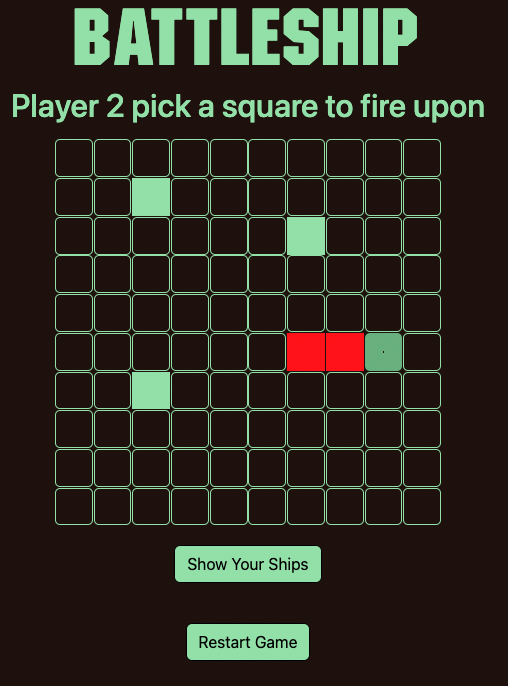
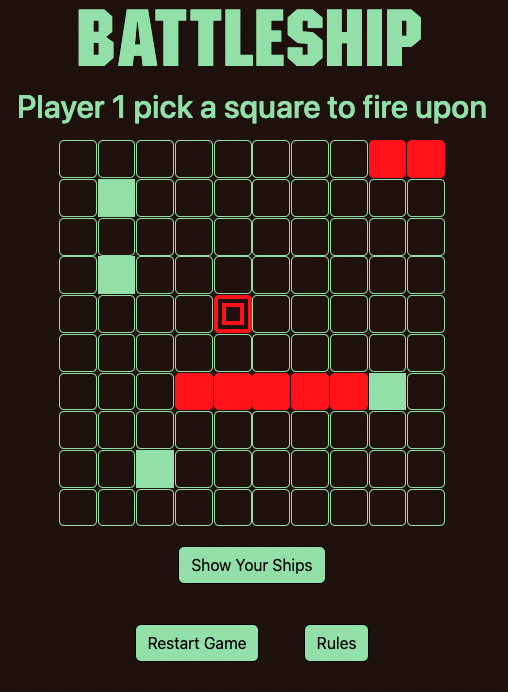
update screenshot 2

Changed region(s): [[0.0295, 0.1224, 0.9744, 0.8571], [0.1476, 0.0, 0.8268, 0.0918], [0.2657, 0.8878, 0.7382, 0.9796]]

diff --git a/js/app.js b/js/app.js
@@ -429,7 +429,7 @@ function renderModal(){
       if (checkIfSunk(shipHit,game.turn)){
         modalHeader.lastElementChild.innerHTML = `You <span id="sunk-text">SUNK</span> my ${shipHit}`
       } else {
-        modalHeader.lastElementChild.innerHTML = `You <span id="hit-text">hit</span> my ${shipHit}`
+        modalHeader.lastElementChild.innerHTML = `You <span id="hit-text">HIT</span> my ${shipHit}`
       }
     } else {
       modalHeader.firstElementChild.textContent = "MISS"

diff --git a/css/style.css b/css/style.css
@@ -50,7 +50,7 @@ embed{
 }
 
 .hit{
-  border: 12px solid red;
+  border: 12px double red;
   border-radius: 5px;
 }
 
@@ -127,9 +127,13 @@ embed{
   align-items: center;
 }
 
-/* #hit-text{
+#hit-text{
   color: red;
-} */
+  font-size: 50px;
+  -webkit-text-fill-color: #200f09; /* Will override color (regardless of order) */
+  -webkit-text-stroke-width: 4px;
+  -webkit-text-stroke-color: red;
+}
 
 #sunk-text{
   color: red;
